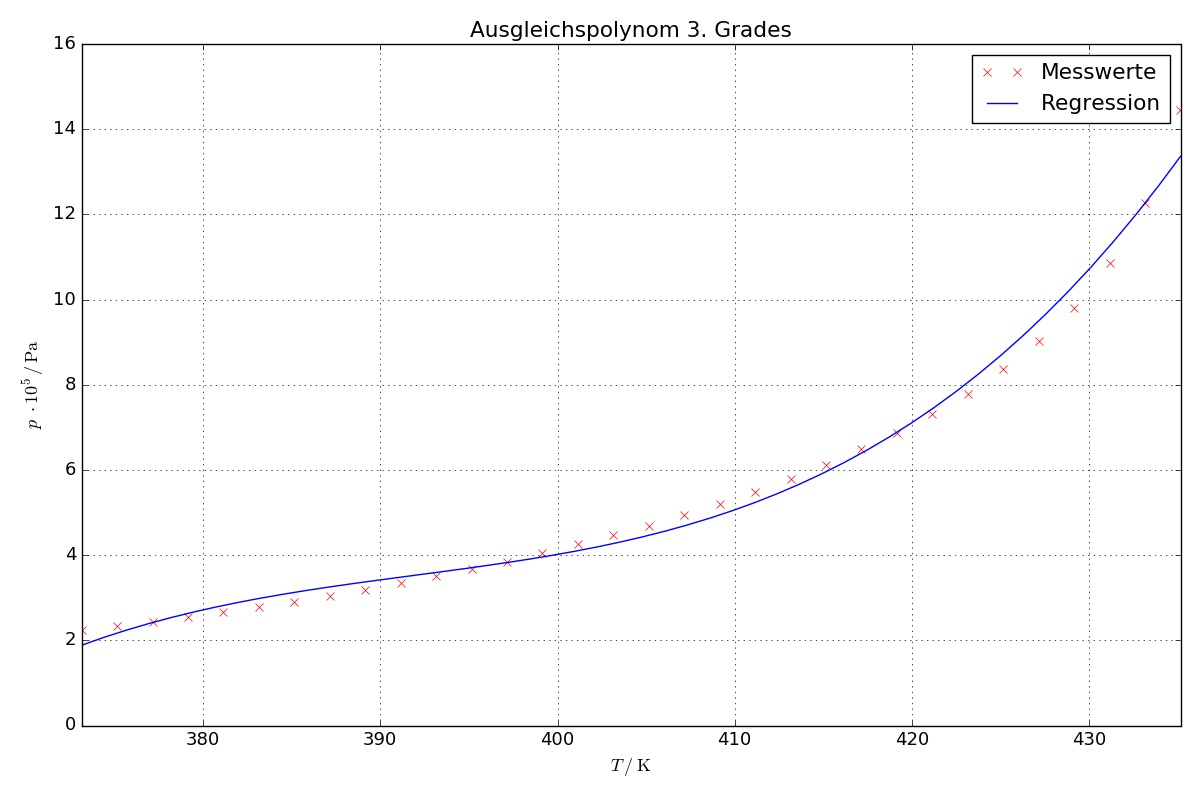
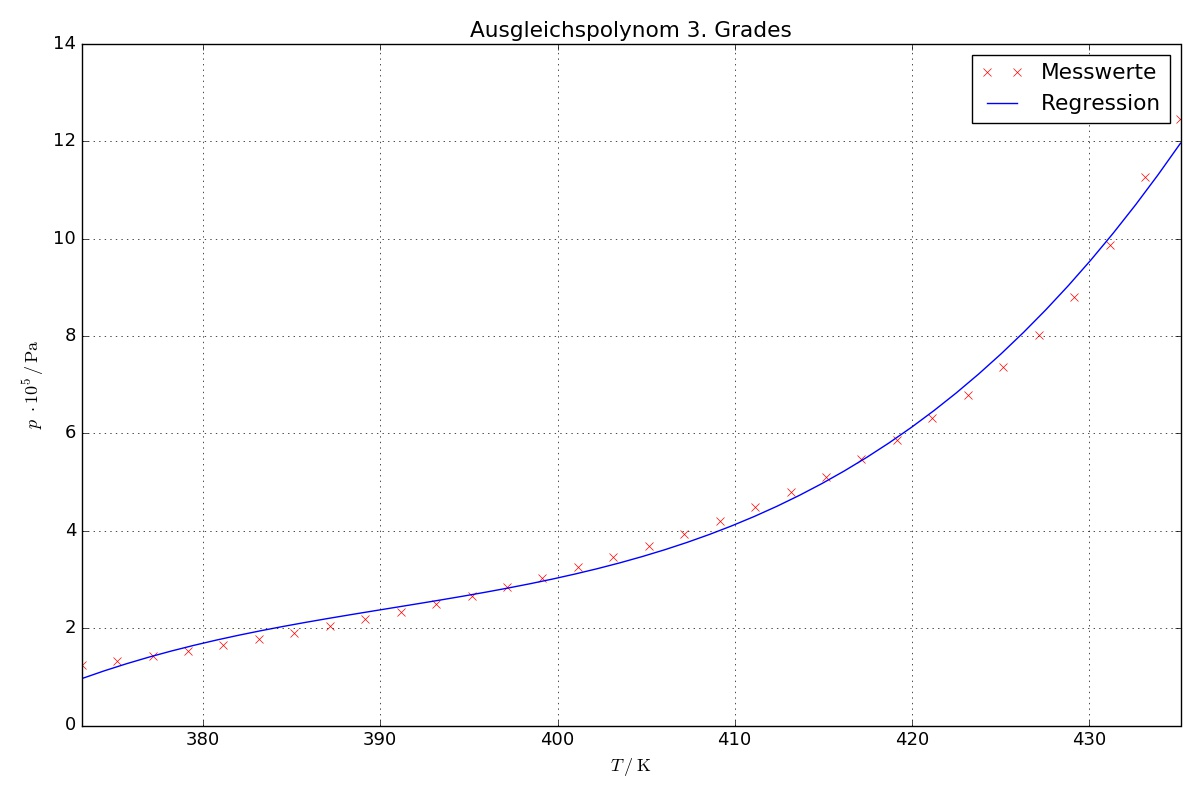
Korrektur Auswertung begonnen

diff --git a/Verdampfungswaerme/Auswertung.tex b/Verdampfungswaerme/Auswertung.tex
@@ -1,20 +1,20 @@
-\subsection{p < 1 bar}
+\subsection{Dampfdruckkurve im Niederdruckbereich}
 Um die Verdampfungswärme L zu berechnen, wird die Formel
 \begin{equation*}
-  \ln \bigl(\frac{p}{p_0}\bigr)=-\frac{\symup{L}}{\symup{R}} \cdot \frac{1}{\symup{T}}
+  \ln \biggl(\frac{p}{p_0}\biggr)=-\frac{\symup{L}}{\symup{R}} \cdot \frac{1}{\symup{T}}
   %schon verwendet?
 \end{equation*}
 verwendet. Hierbei ist $p_0$ der Umgebungsdruck und beträgt
 \begin{equation*}
-  p_0=995\cdot 10^2 \si{\pascal}.
+  p_0=995\cdot 10^2 \,\si{\pascal}.
 \end{equation*}
-Die in Tabelle\ref{tab:data1} gemessenen Werte für den Druck werden logarithmiert und in einem
+Die in Tabelle \ref{tab:data1} gemessenen Werte für den Druck werden logarithmiert und in einem
 Diagramm gegen den Kehrwert der absoluten Temperatur aufgetragen.
 \input{Table1.tex}
 \begin{figure}[H]
   \centering
-  \includegraphics[height=9cm , width=13.5cm]{fit1.jpg}
-  \caption{fit1}
+  \includegraphics[height=9cm , width=13.5cm]{fit1.pdf}
+  \caption{linearer Fit der Messwerte bis 1 bar}
   \label{fig:fit1}
   \end{figure}
 Die Parameter der linearen Regression werden mit Python 3.5.2 berechnet und
@@ -23,7 +23,7 @@ lauten:
   a =& (-5,044 \pm 0,006) \cdot 10^3 \si{\kelvin} \\
   b =& (13,54 \pm 0,02)
 \end{align*}
-Unter Verwendung von Formel \eqref{eq:4} und der allgemeinen Geradengleichung
+Unter Verwendung von Formel \eqref{eq:4} und der Geradengleichung
 lässt sich L mit
 \begin{equation}
   a=-\frac{L}{\symup{R}} \iff L = -a \cdot \symup{R}
@@ -31,9 +31,10 @@ lässt sich L mit
 darstellen. Der dazugehörige Fehler wird über die Gaußsche Fehlerfortpflanzung
 berechnet und liefert:
 \begin{equation}
-  \Delta f = \sqrt{-\symup{R}^2 \cdot \Delta a^2}.
+  \Delta L = \sqrt{(\symup{R} \cdot \Delta a)^2}.
+  \label{eqn:fehler}
 \end{equation}
-Wobei R die allgemeine Gaskontante und $\Delta a$ der Fehler von $a$ ist.
+Hierbei ist R die allgemeine Gaskontante und $\Delta a$ der Fehler von $a$.
 Somit ergibt sich:
 \begin{equation*}
   L=(41,94 \pm 0,05)\cdot 10^3 \frac{\si{\joule}}{\si{\mol}}.
@@ -42,8 +43,8 @@ Somit ergibt sich:
 Weiter soll die äußere Verdampfungswärme $L_a$, also die Energie, welche
 benötigt wird um das Volumen der Flüssigkeit auf das Volumen des Gases
 zu bringen, berechnet werden. Hierbei wird eine Volumenarbeit $W=pV$ geleistet.
-Über gleichsetzen der idealen Gasgleichung \eqref{eq:ideal} mit der
-Volumenarbeit, lässt sich $L_a$ für eine Temperatur von $T=373 \si{\kelvin}$
+Über Gleichsetzen der idealen Gasgleichung \eqref{eq:ideal} mit der
+Volumenarbeit lässt sich $L_a$ für eine Temperatur von $T=373 \si{\kelvin}$
 berechnen:
 \begin{align*}
   L_a =& W =pV=RT \\
@@ -55,31 +56,33 @@ Anziehungskräfte zu überwinden. Diese ist
   L_i=&L-L_a \\
   =& (38,84 \pm 0,05)\cdot 10^3 \si{\joule\per\mol}.
 \end{align*}
- Die innere Energie pro Molekül erhält man durch die Division mit der Avogadrokonstanten
- $\symup{N_A}=6,022 \cdot 10^{23} \frac{1}{\si{\mol}}$.
- Dieses Ergebnis wird der Anschaulichkeit halber in Elektronenvolt angegeben
- ($1\si{\electronvolt}=1,602\cdot 10{{-19}}\si{\joule})$.
- Der Fehler wird erneut über die Gaußsche Fehlerfortpflanzung berechnet:
- \begin{equation*}
-   \Delta f=\sqrt{\frac{1}{\symup N_A^2}\cdot 0,050^2}.
- \end{equation*}
- Somit:
- \begin{align*}
-   L_i =&(4,03\cdot 10^{-4} \pm 1\cdot 10^{-6})\ \si{\electronvolt} \\
-   L_i =&(0,403 \pm 0,001) \ \si{\milli\electronvolt}
- \end{align*}
-\subsection{p > 1 bar}
-Um die Verdampfungswärme, bei höheren Drücken, in Abhängigkeit der Temperatur zu
-ermitteln, benötigen wir die Clausis-Clapeyronsche Gleichung (\ref{eq:clausius}).
-Diese wird nach der Verdampfungswärme L umgeformt:
+Der Fehler wird mit der Gaußschen Fehlerfortpflanzung aus Formel \eqref{eqn:fehler}
+berechnet.
+Die innere Energie pro Molekül erhält man durch die Division mit der Avogadrokonstanten
+$\symup{N_A}=6,022 \cdot 10^{23} \frac{1}{\si{\mol}}$.
+Dieses Ergebnis wird der Anschaulichkeit halber in Elektronenvolt angegeben
+($1\si{\electronvolt}=1,602\cdot 10^{-19}\,\si{\joule})$.
+Der Fehler wird erneut über die Gaußsche Fehlerfortpflanzung berechnet:
+\begin{equation*}
+   \Delta L_i=\sqrt{\frac{1}{\symup N_A^2}\cdot \sigma^2}.
+\end{equation*}
+Somit:
+\begin{align*}
+   L_{i,m} =&(4,03\cdot 10^{-4} \pm 1\cdot 10^{-6})\ \si{\electronvolt} \\
+   L_{i,m} =&(0,403 \pm 0,001) \ \si{\milli\electronvolt}
+\end{align*}
+\subsection{Dampfdruckkurve im Hochdruckbereich}
+Um die Verdampfungswärme bei höheren Drücken in Abhängigkeit der Temperatur zu
+ermitteln, wird die Clausis-Clapeyronsche Gleichung (\ref{eq:clausius}) verwendet.
+Diese wird nach der Verdampfungswärme $L$ umgeformt:
 \begin{equation}
   L = (V_D - V_F) \;T\; \frac{dp}{dT} \label{eq:8}
 \end{equation}
 $V_F$ kann hierbei weiterhin vernachlässigt werden, $V_D$ kann nun jedoch nicht mehr
 mit der allgemeinen Gaslgeichung (\ref{eq:ideal}) bestimmt werden.
-Eine Gute Näherung ist durch die Gleichung
+Eine gute Näherung ist durch die Gleichung
 \begin{align}
-  \biggr(p + \frac{A}{V^2}\biggl) \; V = RT \qquad mit \qquad A = 0,9 \frac{\si{\joule \meter^3}}
+  \biggr(p + \frac{A}{V^2}\biggl) \; V = RT \qquad \text{mit} \qquad A = 0,9 \,\frac{\si{\joule \meter^3}}
   {\si{\mol^2}}
 \end{align}
 gegeben.
@@ -95,7 +98,7 @@ Anschließend wird dieser Term in (\ref{eq:8}) eingesetzt:
 Für die Lösung von $\frac{dp}{dT}$ wird ein Ausgleichpolynom 3. Grades verwendet,
 \begin{align}
   p(T) &= a \cdot T^3 + b \cdot T^2 + c \cdot T + d  \label{eq:pt}\\
-  \frac{dp}{dT} &= 3a \cdot T^2 + 2b \cdot T +    \label{eq:dp}
+  \frac{dp}{dT} &= 3a \cdot T^2 + 2b \cdot T +  c  \label{eq:dp}
 \end{align}
 mit den Parametern:
 \begin{align*}
@@ -113,15 +116,15 @@ mit den Parametern:
   \label{fig:15}
 \end{figure}
 
-Werden nun (\ref{eq:pt}) und (\ref{eq:dp}) in (\ref{eq:8}) eingesetzt, so erhält man
-L in Abhängigkeit von T:
+Werden nun (\ref{eq:pt}) und (\ref{eq:dp}) in (\ref{eq:8}) eingesetzt, lässt sich
+$L$ in Abhängigkeit von T berechnen:
 \begin{align*}
   L(T) = \left[\frac{RT}{2 (aT^3+bT^2+cT+d)} \; \pm \sqrt{\biggl(\frac{RT}{2(aT^3+bT^2+cT+d)}\biggr)^2
   -\frac{A}{aT^3+bT^2+cT+d}}\; \right] \\
   \;\cdot T \; (3aT^2+2bT+c)
 \end{align*}
-Die Lösung mit der negativen Wurzel ergibt hier im Sachzusammenhang jedoch kein Sinn,
-da es keine negative Verdampfungswärme gibt. Somit bleibt nur noch eine Lösung übrig:
+Die Lösung mit der negativen Wurzel ergibt hier im Sachzusammenhang jedoch keinen Sinn,
+da es keine negative Verdampfungswärme gibt. Somit bleibt nur die positve Lösung übrig:
 \begin{figure}[H]
   \centering
   \includegraphics[height=9cm, width=13cm]{Lplus.jpg}

diff --git a/Verdampfungswaerme/Table2.tex b/Verdampfungswaerme/Table2.tex
@@ -6,22 +6,22 @@
   \toprule
   T/\si{\celsius} &   P/\si{\bar}  &   T/\si{\celsius} &   P/\si{\bar} \\
   \midrule
-  100  &   2.24   &   132  &   4.69  \\
-  102  &   2.33   &   134  &   4.94  \\
-  104  &   2.43   &   136  &   5.20  \\
-  106  &   2.54   &   138  &   5.48  \\
-  108  &   2.66   &   140  &   5.78  \\
-  110  &   2.78   &   142  &   6.11  \\
-  112  &   2.90   &   144  &   6.48  \\
-  114  &   3.04   &   146  &   6.87  \\
-  116  &   3.18   &   148  &   7.31  \\
-  118  &   3.34   &   150  &   7.79  \\
-  120  &   3.50   &   152  &   8.36  \\
-  122  &   3.67   &   154  &   9.03  \\
-  124  &   3.85   &   156  &   9.81  \\
-  126  &   4.04   &   158  &  10.86  \\
-  128  &   4.25   &   160  &  12.26  \\
-  130  &   4.47   &   162  &  14.46  \\
+  100  &   1.24   &   132  &   3.69  \\
+  102  &   1.33   &   134  &   3.94  \\
+  104  &   1.43   &   136  &   4.20  \\
+  106  &   1.54   &   138  &   4.48  \\
+  108  &   1.66   &   140  &   4.78  \\
+  110  &   1.78   &   142  &   5.11  \\
+  112  &   1.90   &   144  &   5.48  \\
+  114  &   2.04   &   146  &   5.87  \\
+  116  &   2.18   &   148  &   6.31  \\
+  118  &   2.34   &   150  &   6.79  \\
+  120  &   2.50   &   152  &   7.36  \\
+  122  &   2.67   &   154  &   8.03  \\
+  124  &   2.85   &   156  &   8.81  \\
+  126  &   3.04   &   158  &   9.86  \\
+  128  &   3.25   &   160  &  11.26  \\
+  130  &   3.47   &   162  &  13.46  \\
   \bottomrule
   \end{tabular}
 \end{table}

diff --git a/Verdampfungswaerme/max1bar.py b/Verdampfungswaerme/max1bar.py
@@ -41,5 +41,5 @@ plt.title('Messungen bis 1 bar')
 plt.grid()
 plt.legend()
 plt.tight_layout()
-plt.savefig('fit1.jpg')
+plt.savefig('fit1.pdf')
 plt.show()
